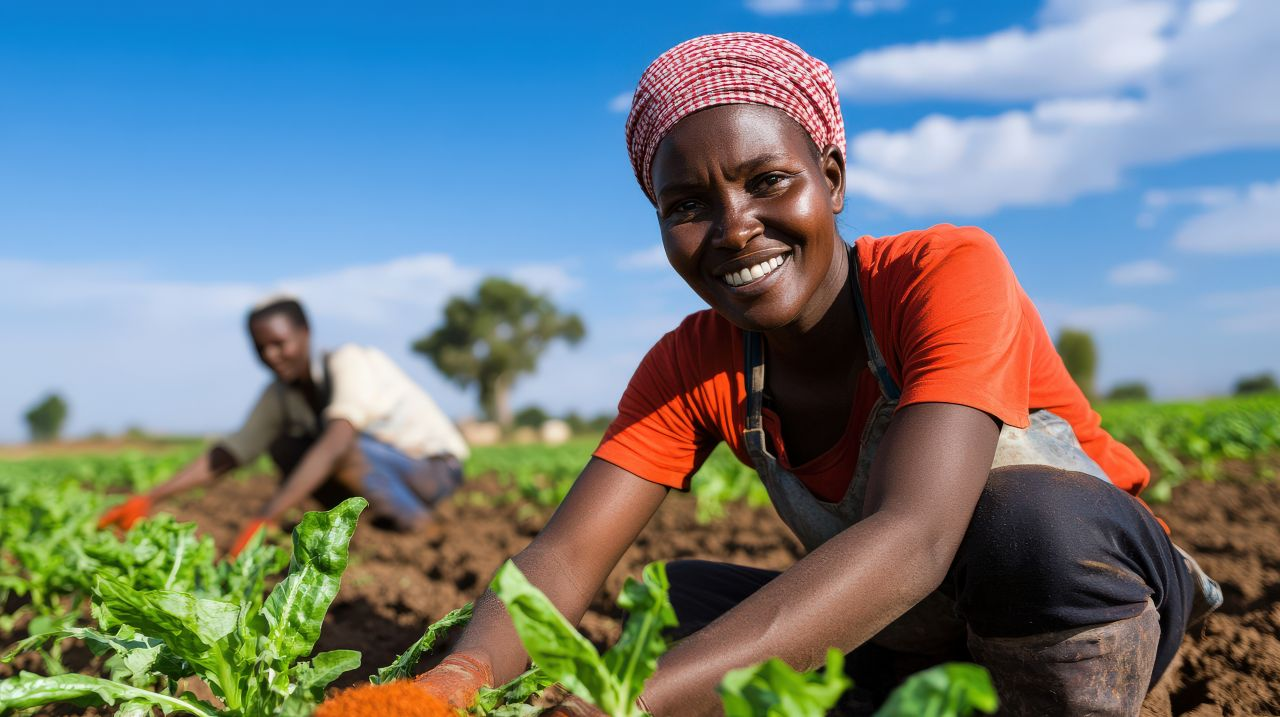
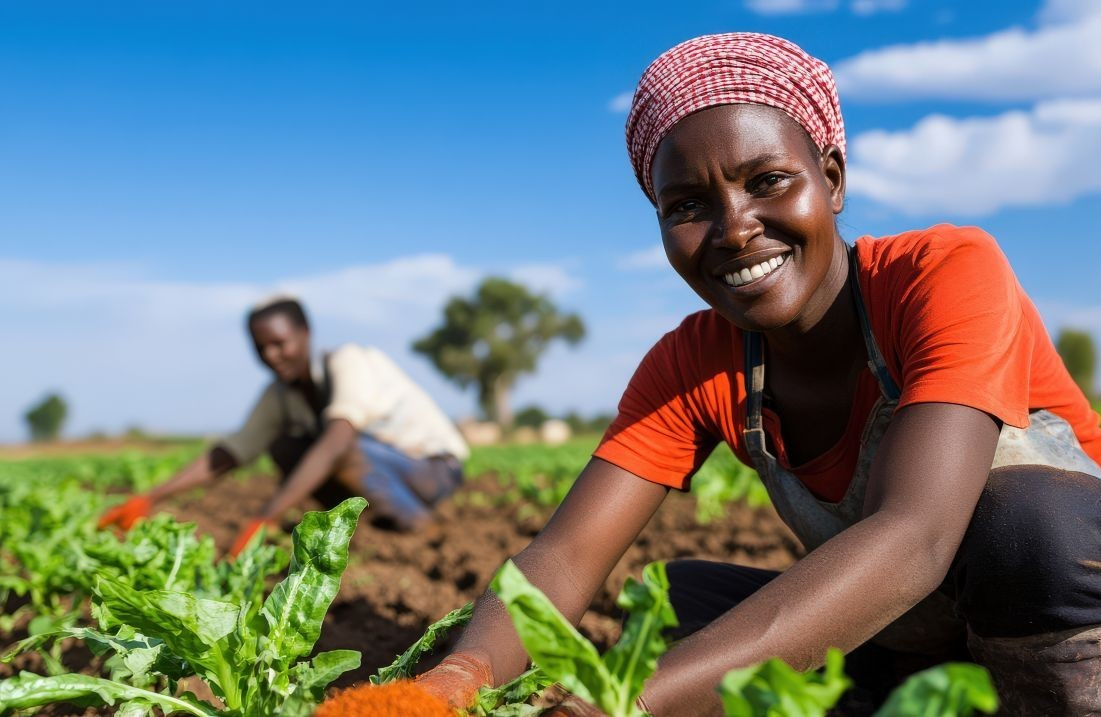
all

diff --git a/src/data/homeData.tsx b/src/data/homeData.tsx
@@ -1,4 +1,4 @@
-import { about, about2, aboutb, banner, banner2, banner3, bene2, bene3, bene4, Best200, Best480, Best50, Best720, Best75, bestacron720, Bestsup, choose1, cl1, cl2, cl3, cl4, cl5, cl6, cl7, cl8, cl9, dual, farm16, farm20, fendel, ferti, logo2, man5sc, mansup, oxp, prob, rondo,  sulph, supa, supa480, supa720, supaking, supamec, supath, tunza } from "@/assets";
+import { about, about2, aboutb, banner, banner2, banner3, bene2, bene3, bene4, Best200, Best480, Best50, Best720, Best75, bestacron720, Bestsup, careerb, choose1, cl1, cl2, cl3, cl4, cl5, cl6, cl7, cl8, cl9, dual, farm16, farm20, fendel, ferti, logo2, man5sc, mansup, oxp, prob, rondo,  sulph, supa, supa480, supa720, supaking, supamec, supath, tunza } from "@/assets";
 import { BsCart4 } from "react-icons/bs";
 import {
   FaMapLocationDot,
@@ -54,7 +54,7 @@ export const navItemsArray = [
   },
 
   { id: 3, label: "Sustainability", href: "/sustainability" },
-  { id: 4, label: "Privacy Policy", href: "/privacy" },
+  { id: 4, label: "Career", href: "/career" },
   { id: 5, label: "Blogs", href: "/blogs" },
   { id: 6, label: "Contact Us", href: "/contact-us" },
 ];
@@ -686,6 +686,16 @@ export const aboutsec2 =
 {id:7, img:banner},
 {id:8, img:banner2},
 ]
+
+// Career
+export const careerBanner = {
+  title: "Career Opportunities",
+  para:
+    "We are confident that we are the leading farm in providing agricultural products that ensure food hygiene and safety.",
+  slug: "about-us",
+  img: careerb,
+};
+
 
 // products page and product
 export const productBanner = {

diff --git a/src/assets/index.ts b/src/assets/index.ts
@@ -11,6 +11,7 @@ import choose1 from "@/assets/home/whychoose.jpg";
 import sus2 from "@/assets/home/sus2.jpg";
 
 import aboutb from "@/assets/home/aboutb.jpg";
+import careerb from "@/assets/home/careerb.jpg";
 import bene2 from "@/assets/home/bene2.jpg";
 import bene3 from "@/assets/home/bene3.jpg";
 import bene4 from "@/assets/home/bene4.jpg";
@@ -76,7 +77,7 @@ import supath from "@/assets/product/Insecticides/SUPATHRIN-5EC.webp";
 import tunza from "@/assets/product/Insecticides/TUNZA-70WS.webp";
 
 export {
-    logo , logo2, banner,banner2,banner3 ,bene2,bene3, bene4, susbanner,prob,aboutb, bann, about,about2,contat,cl1,cl2,cl3,cl4,cl5,cl6,cl7,cl8,cl9, com,env ,social,heade, count
+    logo , logo2, banner,banner2,banner3 ,bene2,bene3, bene4, susbanner,prob,aboutb,careerb, bann, about,about2,contat,cl1,cl2,cl3,cl4,cl5,cl6,cl7,cl8,cl9, com,env ,social,heade, count
  , ferti,sus1,sus2, sus3, sus4, choose1
  ,Bestsup
  ,mansup

diff --git a/src/app/career/page.tsx b/src/app/career/page.tsx
@@ -1,0 +1,30 @@
+import Commited from "@/components/about/commited";
+import Section1 from "@/components/about/section1";
+import Section2 from "@/components/about/section2";
+import Section3 from "@/components/about/section3";
+import Section4 from "@/components/about/section4";
+import Banner from "@/components/global/banner";
+import FaqSection from "@/components/home/faq";
+import Testimonials from "@/components/home/testimonial";
+import { careerBanner } from "@/data/homeData";
+
+
+export default function About() {
+  return (
+    < >
+<Banner img ={careerBanner?.img}
+title={careerBanner.title}
+para={careerBanner.para}
+slug={careerBanner.slug}/>
+
+{/* <Section1 aboutdata={aboutsec1}/> */}
+{/* <Section2/> */}
+<Section3/>
+{/* <Testimonials/> */}
+<Section4/>
+{/* <Commited/> */}
+<FaqSection/>
+
+  </>
+  );
+}

diff --git a/src/components/home/AboutSection.tsx b/src/components/home/AboutSection.tsx
@@ -40,7 +40,7 @@ function AboutSection() {
           <Image
             src={aboutdata?.img2}
             alt="About"
-            className=" rounded-2xl duration-300  shadow-lg right-0 w-full h-full border-8 border-white  object-contain"
+            className=" rounded-2xl duration-300  shadow-lg right-0 w-full h-full border-8 border-white  object-cover"
           />
           </SwiperSlide>
         )}
@@ -49,7 +49,7 @@ function AboutSection() {
           <Image
             src={aboutdata?.img}
             alt="About"
-            className="rounded-2xl duration-300  shadow-lg right-0 w-full h-full   object-contain"
+            className="rounded-2xl duration-300  shadow-lg right-0 w-full h-full   object-cover"
           />
           </SwiperSlide>
         )}
